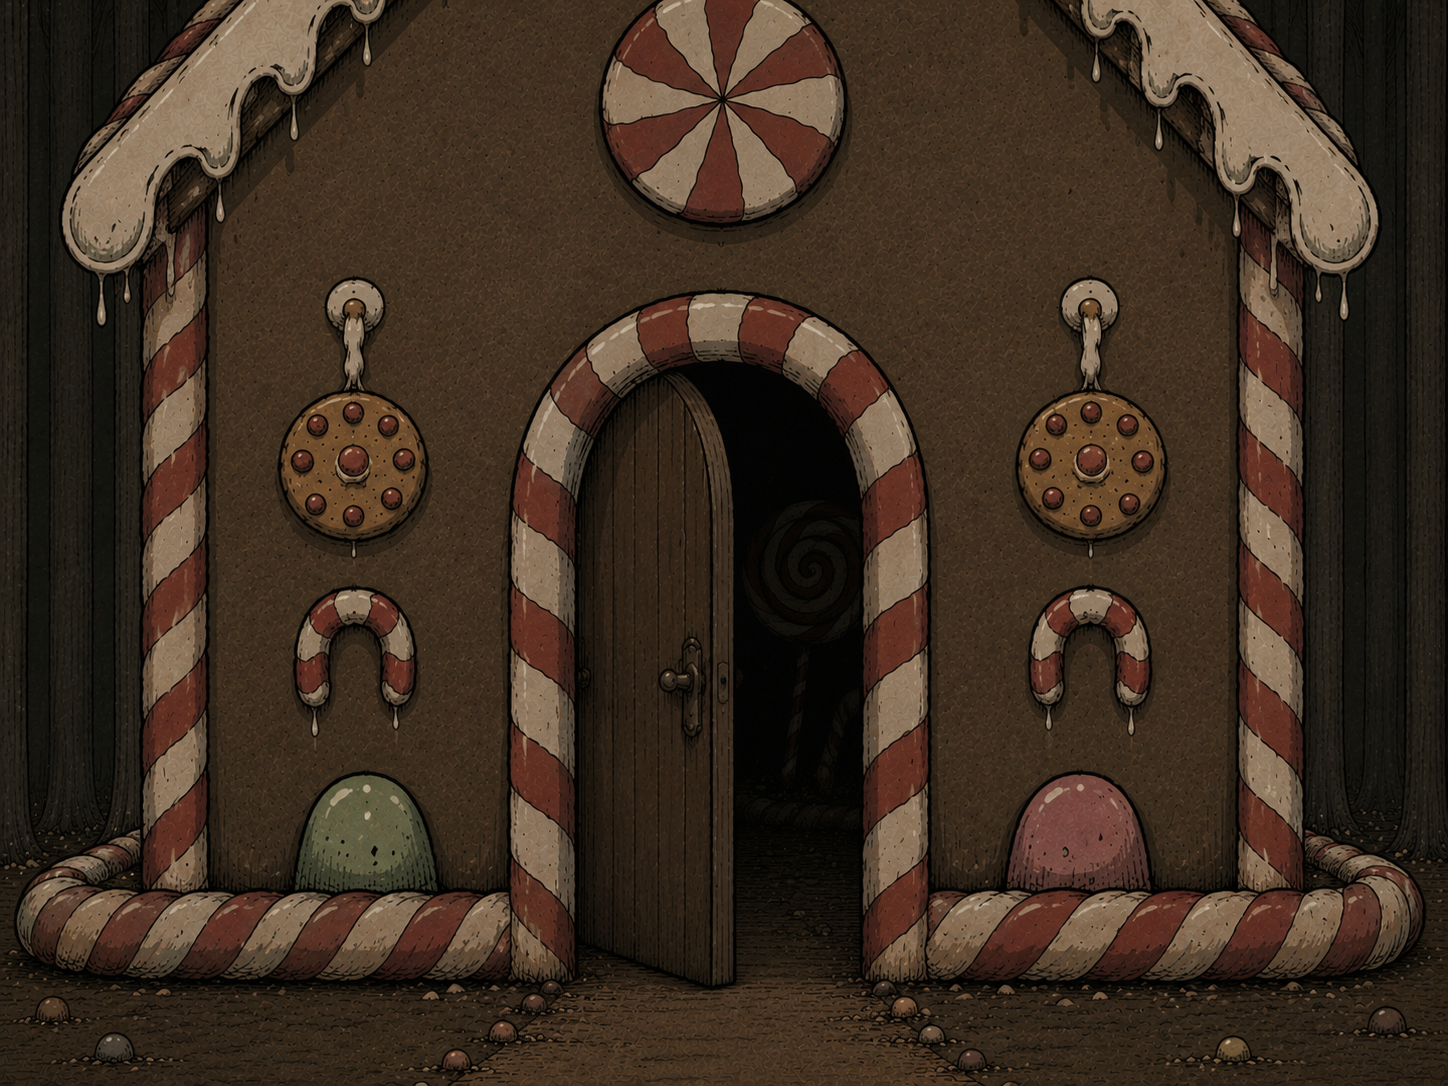
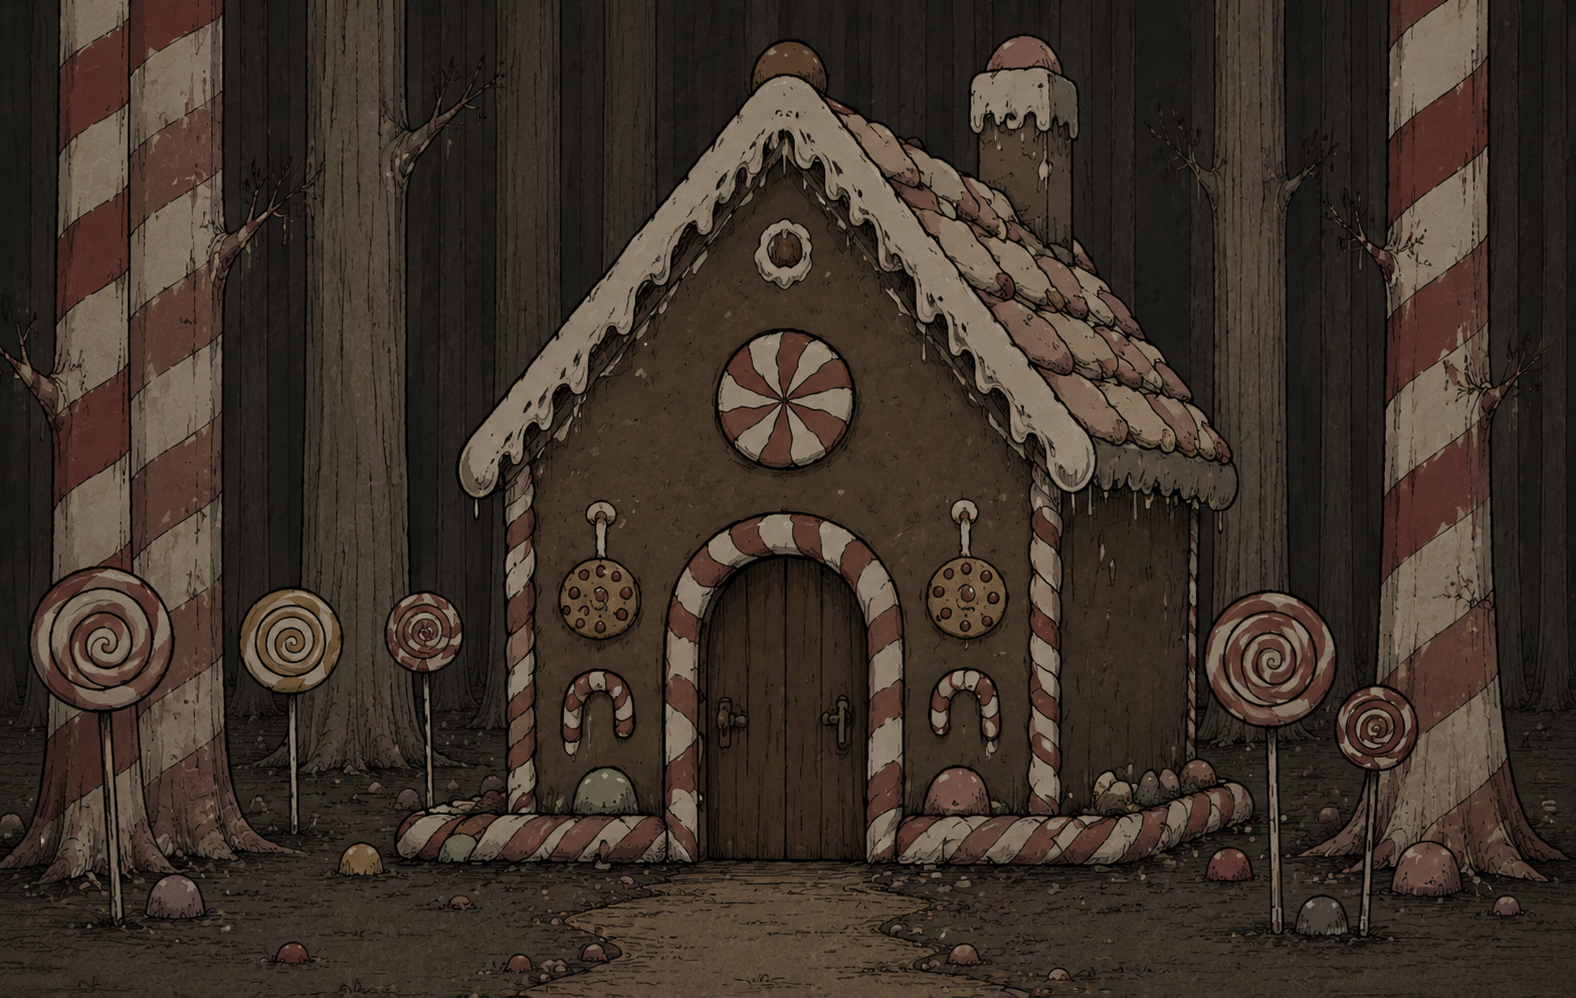
feat: picture

diff --git a/app/chapter01/page.tsx b/app/chapter01/page.tsx
@@ -27,7 +27,7 @@ export default function Chapter01() {
   }
 
   return (
-    <div className="w-full h-screen flex flex-col bg-amber-900">
+    <div className="w-full h-screen flex flex-col ">
       {/* 主場景 */}
       <div className="flex-1 relative">
         {/*<Placeholder label="[糖果屋外觀 背景圖]" className="absolute inset-0" />*/}
@@ -38,7 +38,7 @@ export default function Chapter01() {
             bg-cover
             bg-center
             bg-no-repeat
-            opacity-40
+            opacity-75
           "
         />
 